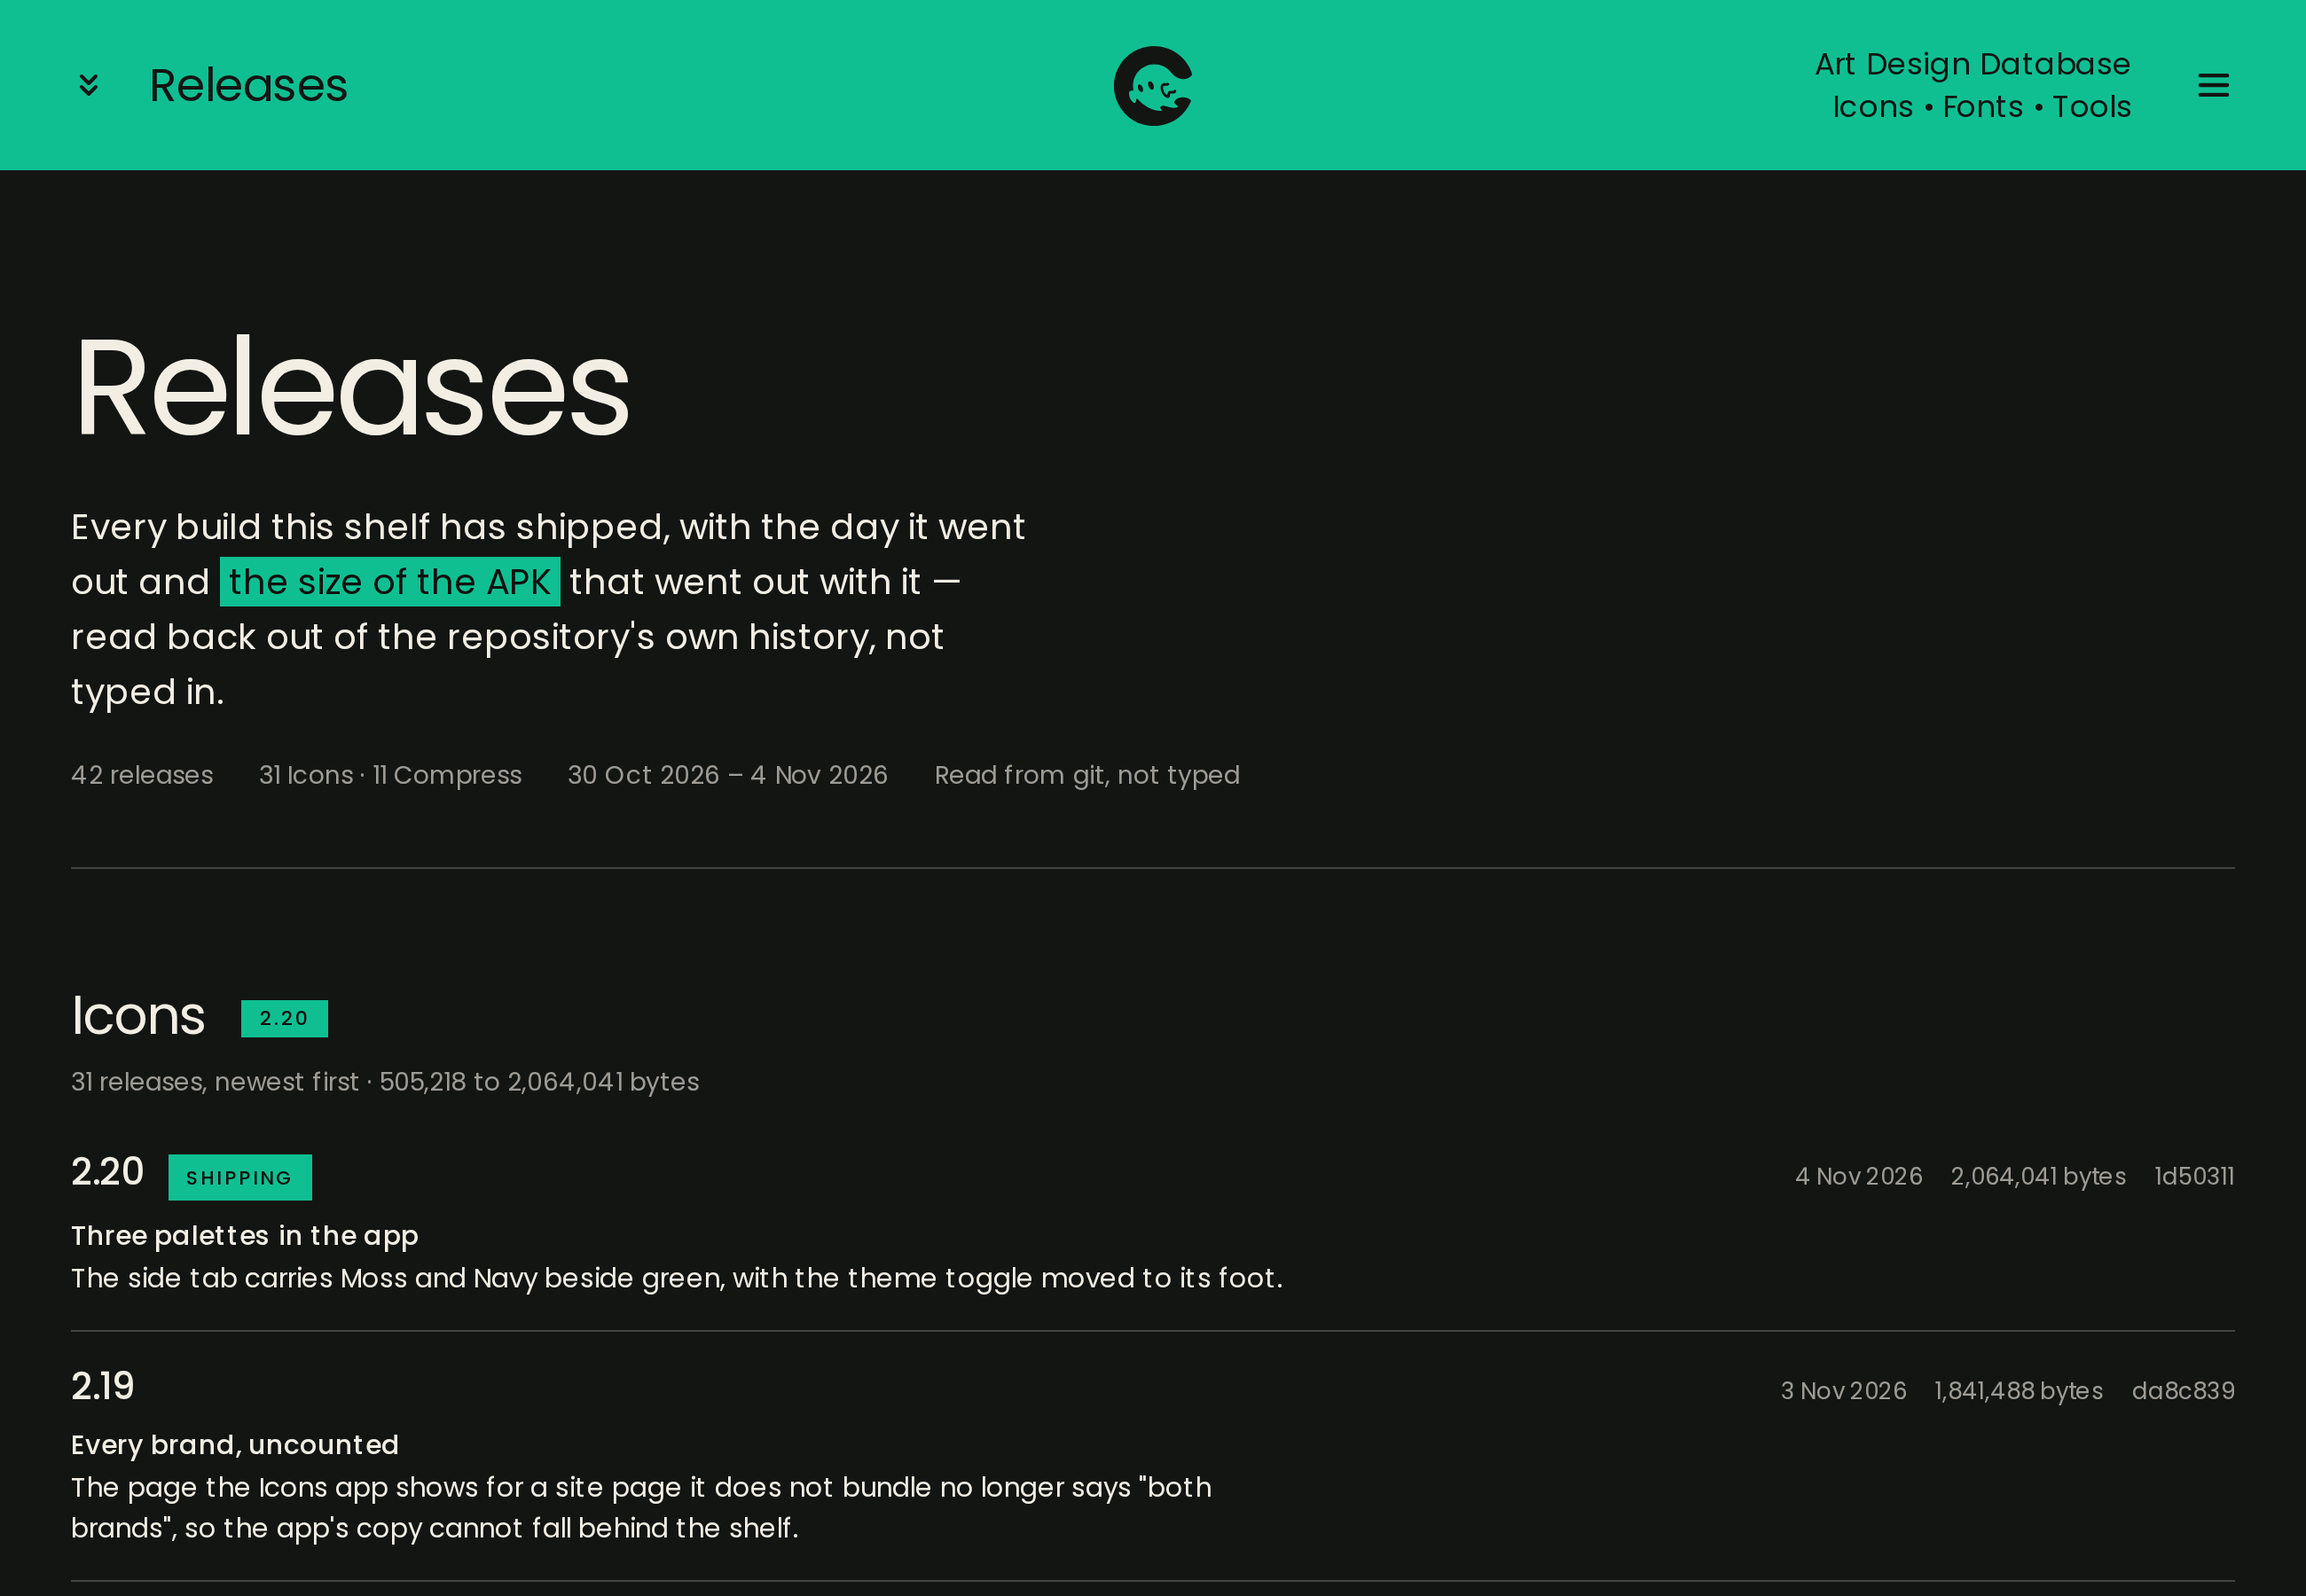
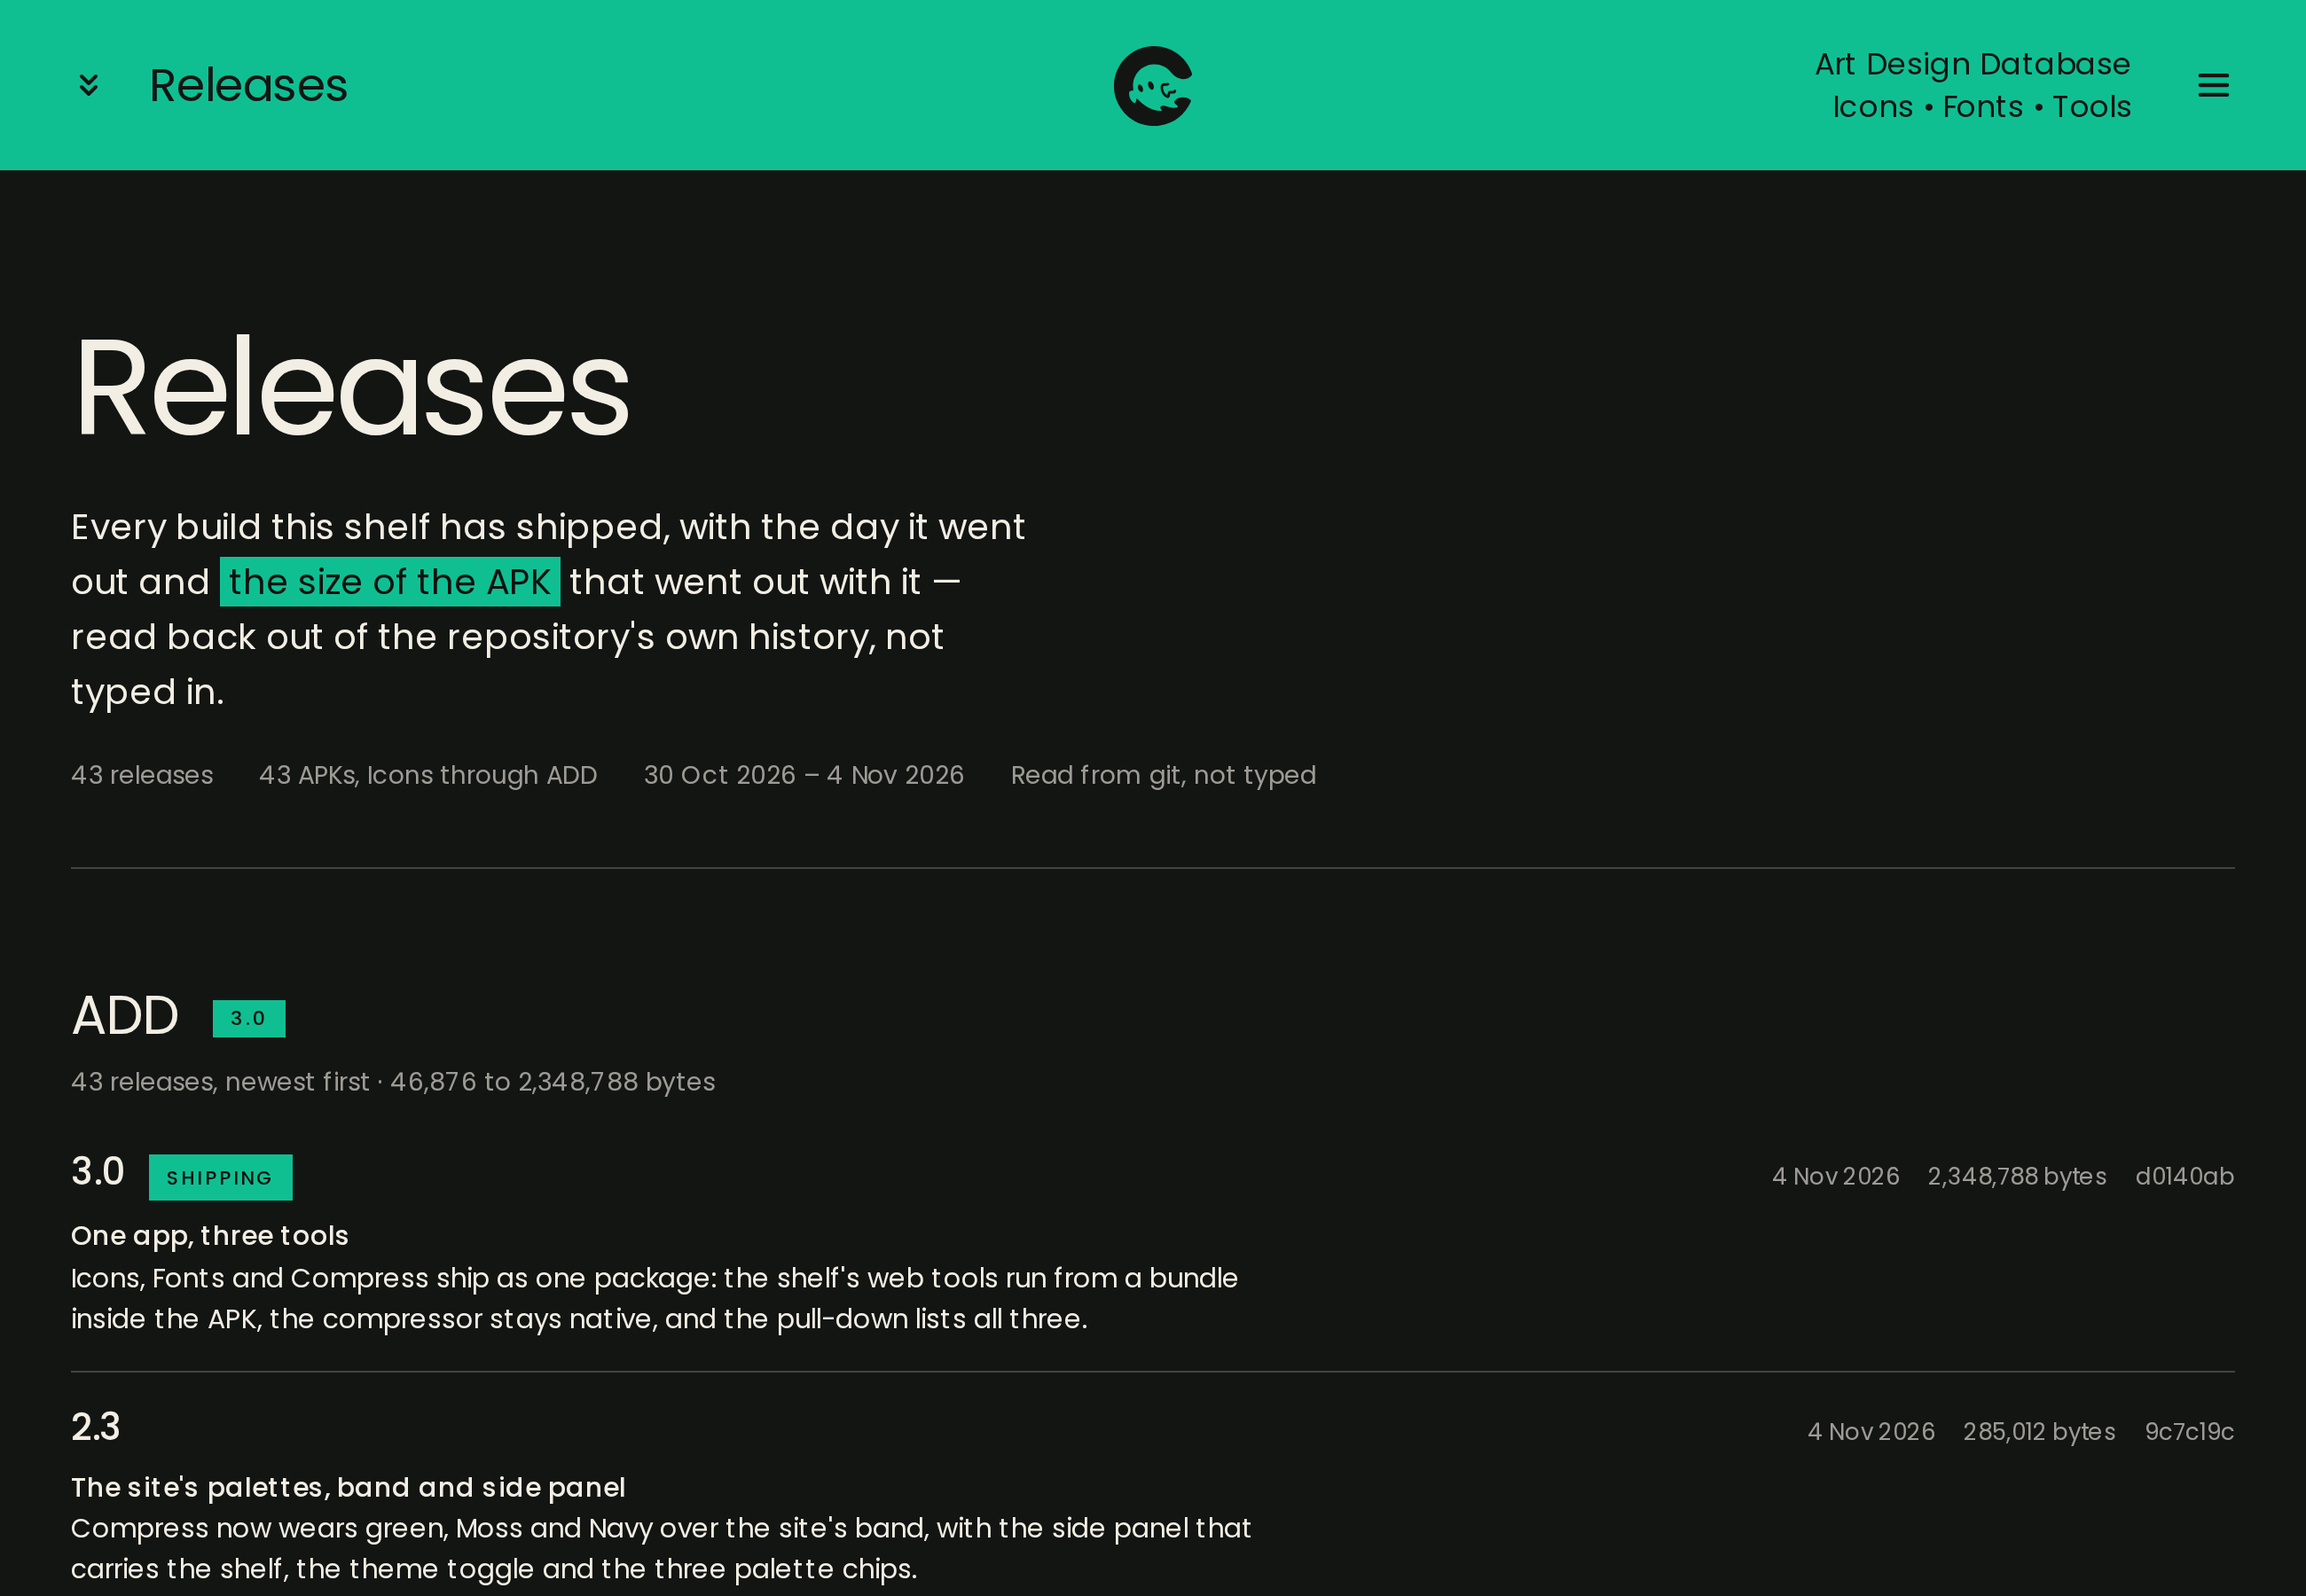
History: ADD 3.0
The releases page is read back out of git, so the 3.0 row could only appear once
the APK was committed; this is that rebuild, with the two releases captures re-shot
against the single-stream page.

🤖 Generated with Codebuff

diff --git a/docs/releases/index.html b/docs/releases/index.html
@@ -3,8 +3,8 @@
 <head>
 <meta charset="utf-8" />
 <meta name="viewport" content="width=device-width, initial-scale=1" />
-<title>Releases — 42 builds, with the date and size of each</title>
-<meta name="description" content="Every build this shelf has shipped: 42 releases with the day and the APK size, read out of git." />
+<title>Releases — 43 builds, with the date and size of each</title>
+<meta name="description" content="Every build this shelf has shipped: 43 releases with the day and the APK size, read out of git." />
 <meta name="theme-color" content="#0fbf92" />
 <link rel="icon" href="../assets/favicon.svg" type="image/svg+xml" />
 <link rel="stylesheet" href="../assets/site.23ad55050f.css" />
@@ -81,8 +81,8 @@
     <h1>Releases</h1>
     <p class="lede">Every build this shelf has shipped, with the day it went out and <b>the size of the APK</b> that went out with it — read back out of the repository's own history, not typed in.</p>
     <p class="meta">
-      <span>42 releases</span>
-      <span>42 APKs, Icons through ADD</span>
+      <span>43 releases</span>
+      <span>43 APKs, Icons through ADD</span>
       <span>30 Oct 2026 – 4 Nov 2026</span>
       <span>Read from git, not typed</span>
     </p>
@@ -90,8 +90,12 @@
 
   <section>
     <h2>ADD <span class="pill live">3.0</span></h2>
-    <p class="kicker">42 releases, newest first · 46,876 to 2,064,041 bytes</p>
+    <p class="kicker">43 releases, newest first · 46,876 to 2,348,788 bytes</p>
     <ul class="rel">
+      <li>
+        <div class="rel-top"><b>3.0</b> <span class="pill live">shipping</span><span class="rel-meta"><span>4 Nov 2026</span><span>2,348,788 bytes</span><code class="sha">d0140ab</code></span></div>
+          <p class="rel-note"><b>One app, three tools</b> Icons, Fonts and Compress ship as one package: the shelf's web tools run from a bundle inside the APK, the compressor stays native, and the pull-down lists all three.</p>
+      </li>
       <li>
         <div class="rel-top"><b>2.3</b><span class="rel-meta"><span>4 Nov 2026</span><span>285,012 bytes</span><code class="sha">9c7c19c</code></span></div>
           <p class="rel-note"><b>The site's palettes, band and side panel</b> Compress now wears green, Moss and Navy over the site's band, with the side panel that carries the shelf, the theme toggle and the three palette chips.</p>
@@ -287,7 +291,7 @@
 </main>
 
 <footer>
-  <span>ADD 3.0 · 42 releases from history</span>
+  <span>ADD 3.0 · 43 releases from history</span>
   <span><a href="../">Index</a> · <a href="../tools/">Tools</a> · <a href="../download/">Download</a></span>
 </footer>
 
